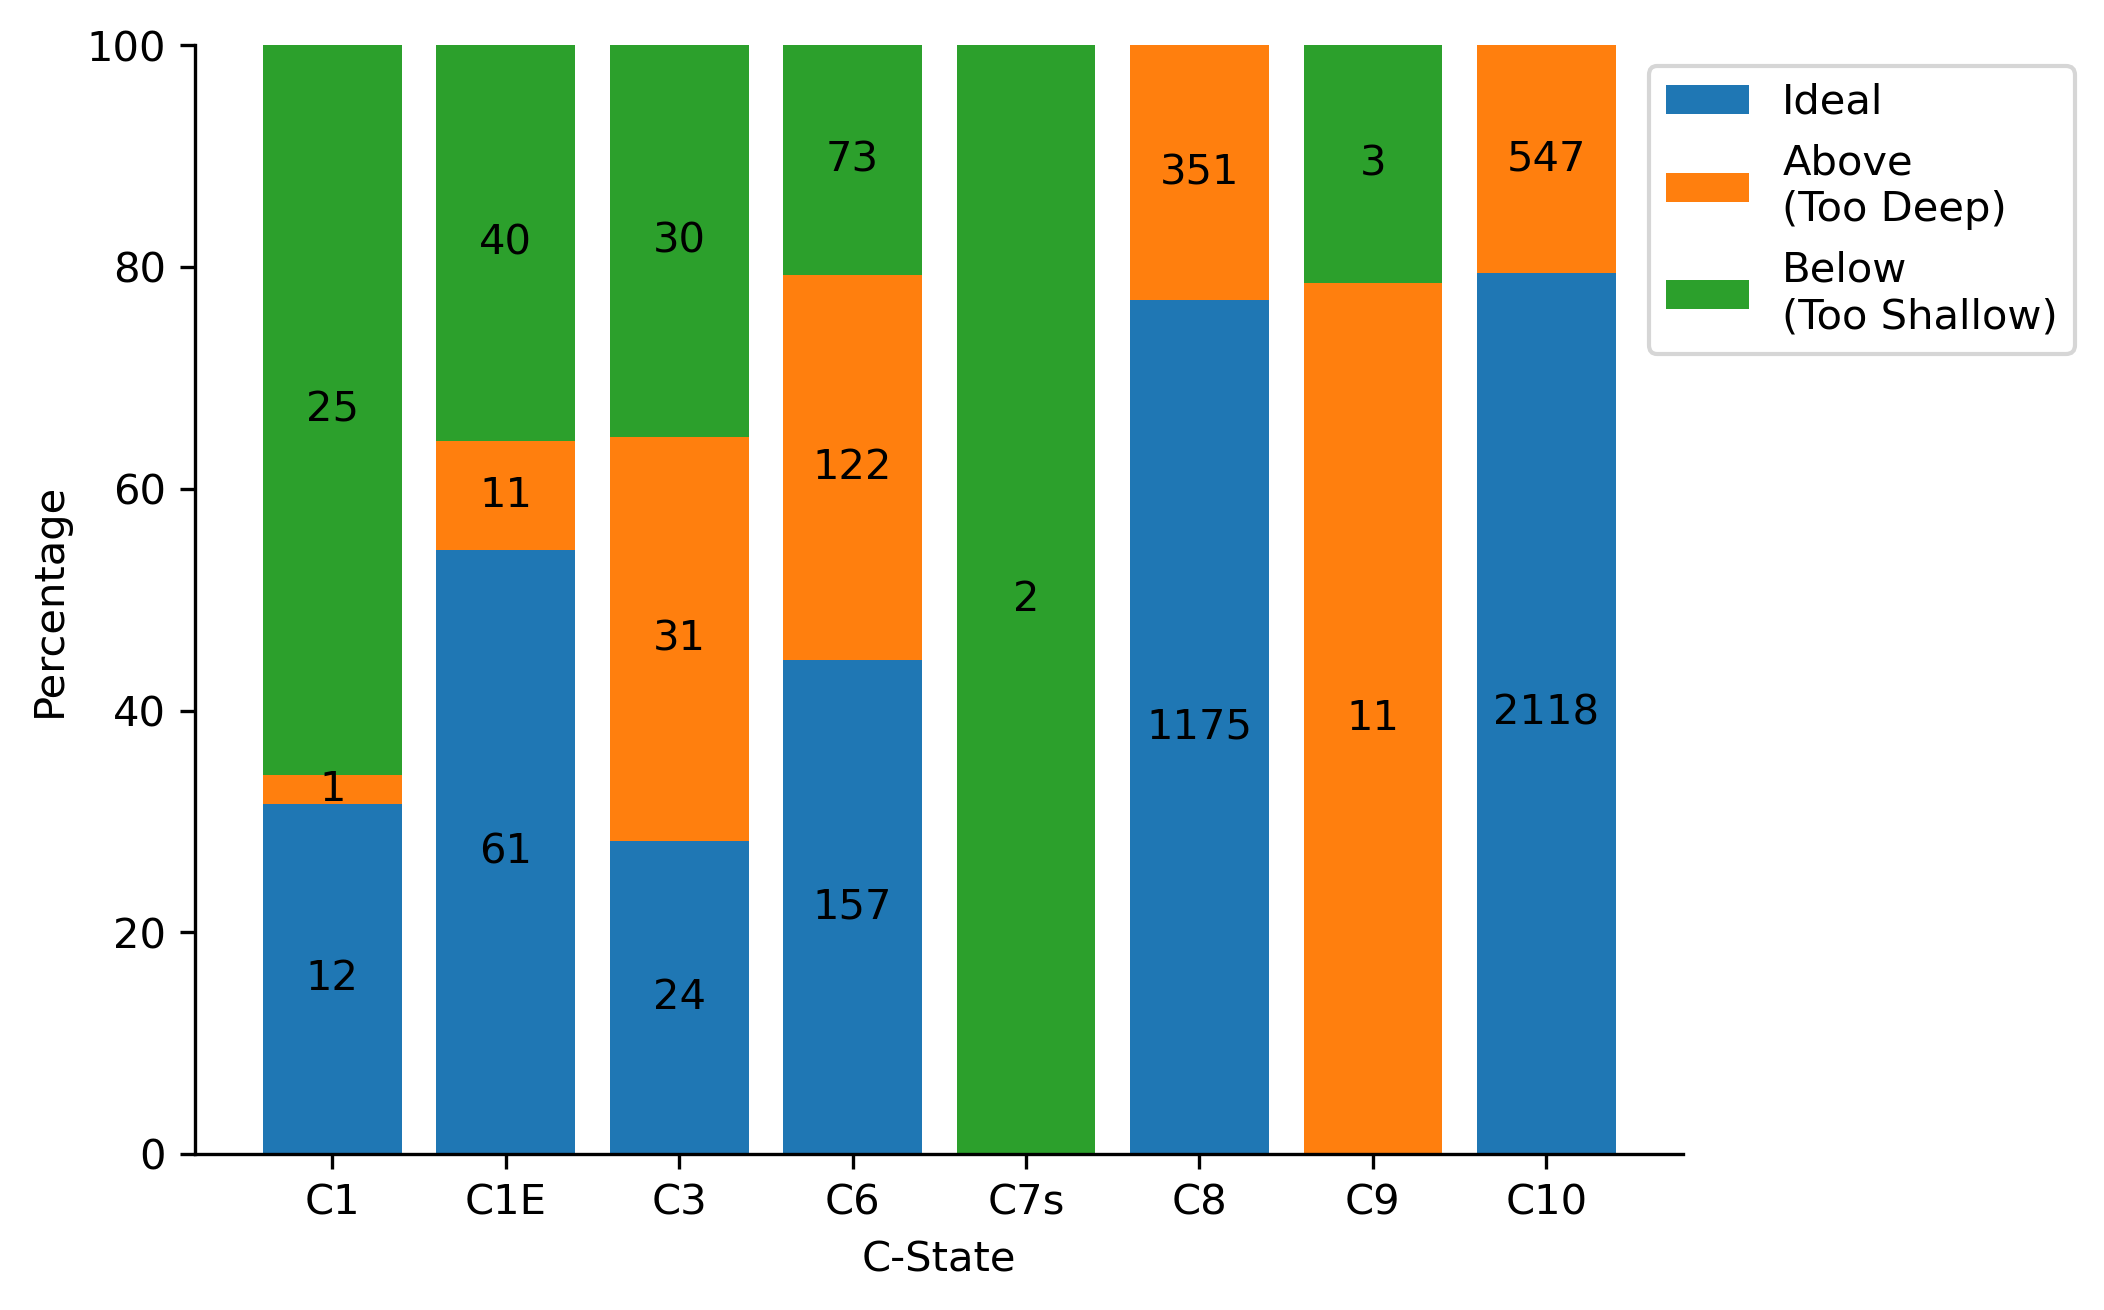
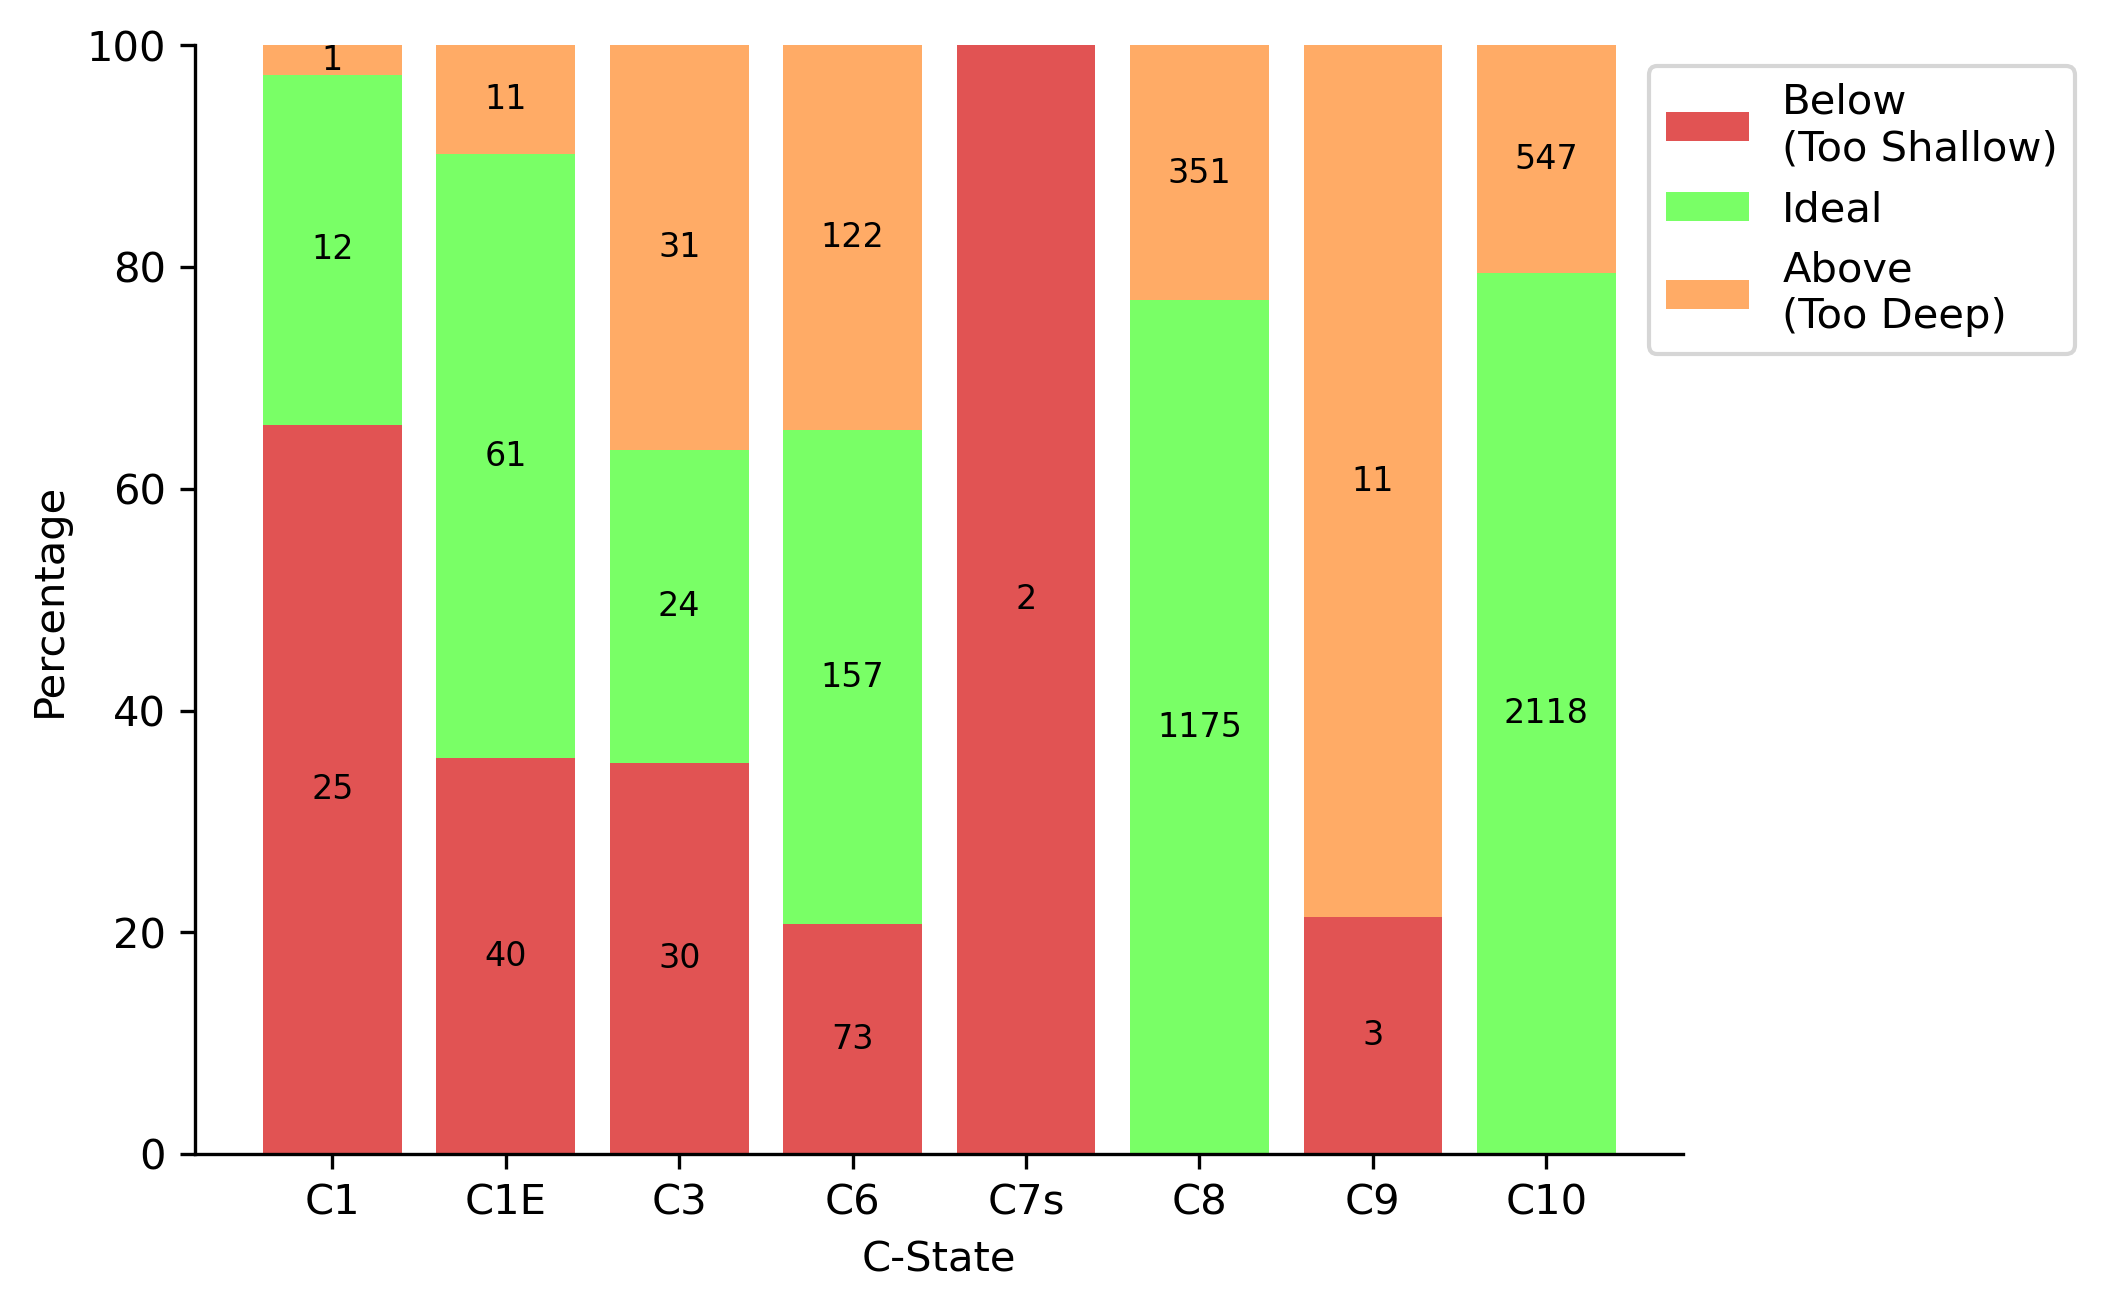
idle-governor: change colors, ordering and fs bar

diff --git a/images/idle-governor/idle-governor-cstate-miss-bar.py b/images/idle-governor/idle-governor-cstate-miss-bar.py
@@ -31,27 +31,30 @@ grouped_data['Below_perc'] = 100 * grouped_data['Below'] / grouped_data['Entries
 grouped_data = grouped_data.drop(columns = ['Miss'])
 
 fig, ax = plt.subplots()
-bars_match = ax.bar(grouped_data['C-State'], grouped_data['Match_perc'])
-bars_above = ax.bar(grouped_data['C-State'], grouped_data['Above_perc'], bottom=grouped_data['Match_perc'])
-bars_below = ax.bar(grouped_data['C-State'], grouped_data['Below_perc'], bottom=(grouped_data['Match_perc'] + grouped_data['Above_perc']))
+bars_below = ax.bar(grouped_data['C-State'], grouped_data['Below_perc'], color='#e15353')
+bars_match = ax.bar(grouped_data['C-State'], grouped_data['Match_perc'], bottom=grouped_data['Below_perc'], color='#79ff66')
+bars_above = ax.bar(grouped_data['C-State'], grouped_data['Above_perc'], bottom=(grouped_data['Match_perc'] + grouped_data['Below_perc']), color= '#ffab66')
+
+FONTSIZE = 8
+
+for i, bar_below in enumerate(bars_below):
+    if grouped_data['Below'][i] > 0:
+        height=bar_below.get_height()
+        ax.text(bar_below.get_x() + bar_below.get_width() / 2, bar_below.get_y() + bar_below.get_height() / 2, grouped_data['Below'][i],
+                va='center', ha='center', fontsize=FONTSIZE)
 
 for i, bar_match in enumerate(bars_match):
     if grouped_data['Match'][i] > 0:
         height=bar_match.get_height()
         ax.text(bar_match.get_x() + bar_match.get_width() / 2, bar_match.get_y() + bar_match.get_height() / 2, grouped_data['Match'][i],
-                va='center', ha='center')
+                va='center', ha='center', fontsize=FONTSIZE)
 
 for i, bar_above in enumerate(bars_above):
     if grouped_data['Above'][i] > 0:
         height=bar_above.get_height()
         ax.text(bar_above.get_x() + bar_above.get_width() / 2, bar_above.get_y() + bar_above.get_height() / 2, grouped_data['Above'][i],
-                va='center', ha='center')
+                va='center', ha='center', fontsize=FONTSIZE)
 
-for i, bar_below in enumerate(bars_below):
-    if grouped_data['Below'][i] > 0:
-        height=bar_below.get_height()
-        ax.text(bar_below.get_x() + bar_match.get_width() / 2, bar_below.get_y() + bar_below.get_height() / 2, grouped_data['Below'][i],
-                va='center', ha='center')
 
 # Format axes
 ax.spines['top'].set_visible(False)
@@ -60,7 +63,7 @@ ax.spines['right'].set_visible(False)
 
 plt.xlabel('C-State')
 plt.ylabel('Percentage')
-plt.legend(['Ideal', 'Above\n(Too Deep)', 'Below\n(Too Shallow)'], loc='upper center', bbox_to_anchor=(0.87, 0, 0.5, 1))
+plt.legend(['Below\n(Too Shallow)', 'Ideal', 'Above\n(Too Deep)'], loc='upper center', bbox_to_anchor=(0.87, 0, 0.5, 1))
 
 print(f'generate {FILE_PDF}')
 plt.savefig(FILE_PDF, dpi=300, bbox_inches='tight')
